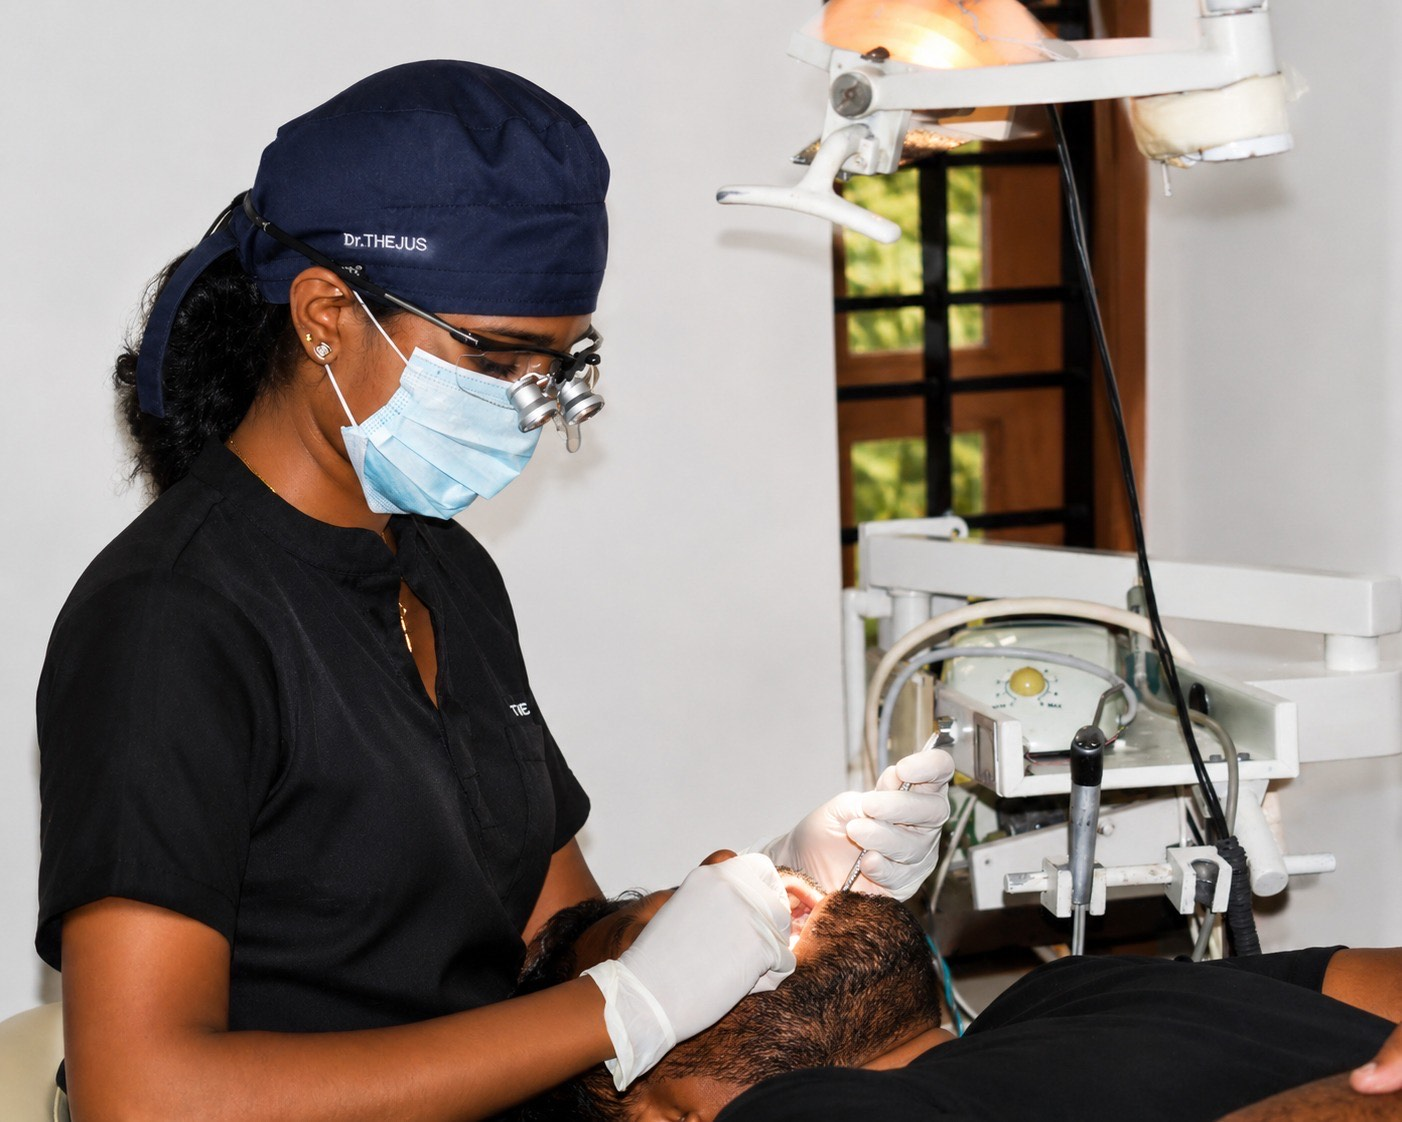
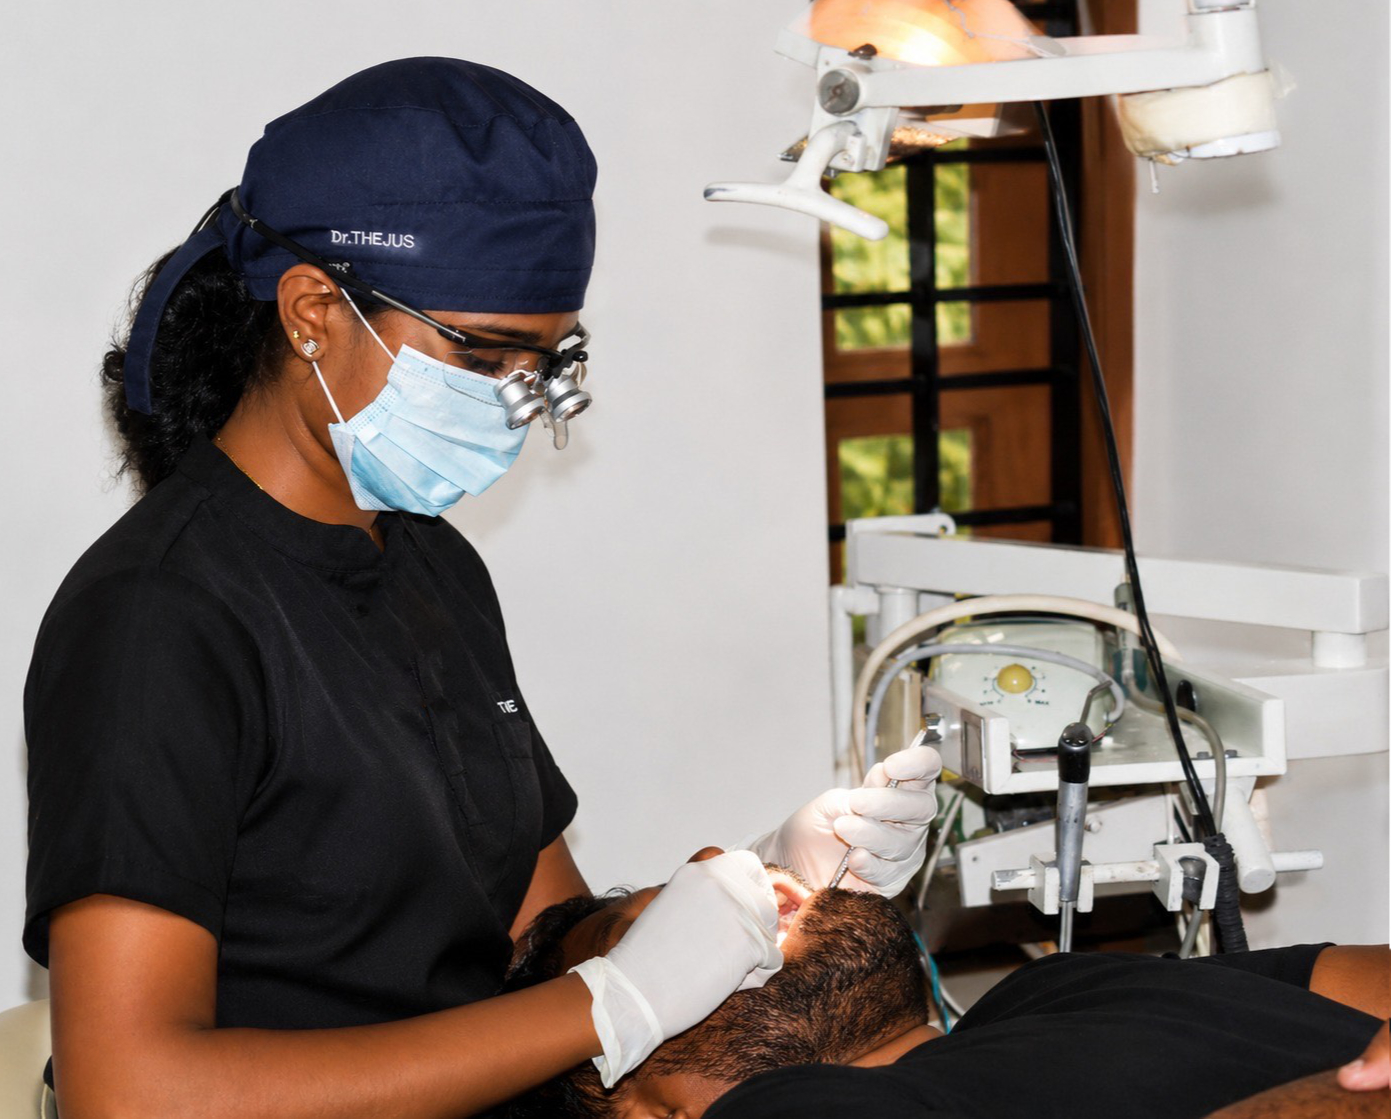
fix: misc changes

diff --git a/services.html b/services.html
@@ -58,7 +58,7 @@
       <div class="section-shell page-intro-grid">
         <div class="page-intro-copy reveal">
           <span class="eyebrow">Treatment portfolio</span>
-          <h1>Clinical care tailored to prevention and aesthetics.</h1>
+          <h1>Clinical care tailored to prevention and aesthetics</h1>
           <p>
             From routine exams to complete smile transformations, each treatment is planned
             with digital precision and a long-term oral health perspective.

diff --git a/gallery.html b/gallery.html
@@ -61,7 +61,7 @@
         <div class="section-head reveal">
           <div class="section-copy">
             <span class="section-label">Featured</span>
-            <h2>Glimpses of the clinic.</h2>
+            <h2>Glimpses of the clinic</h2>
             <p class="section-lead">Our facilities are designed to provide a comfortable and welcoming environment.</p>
           </div>
         </div>
